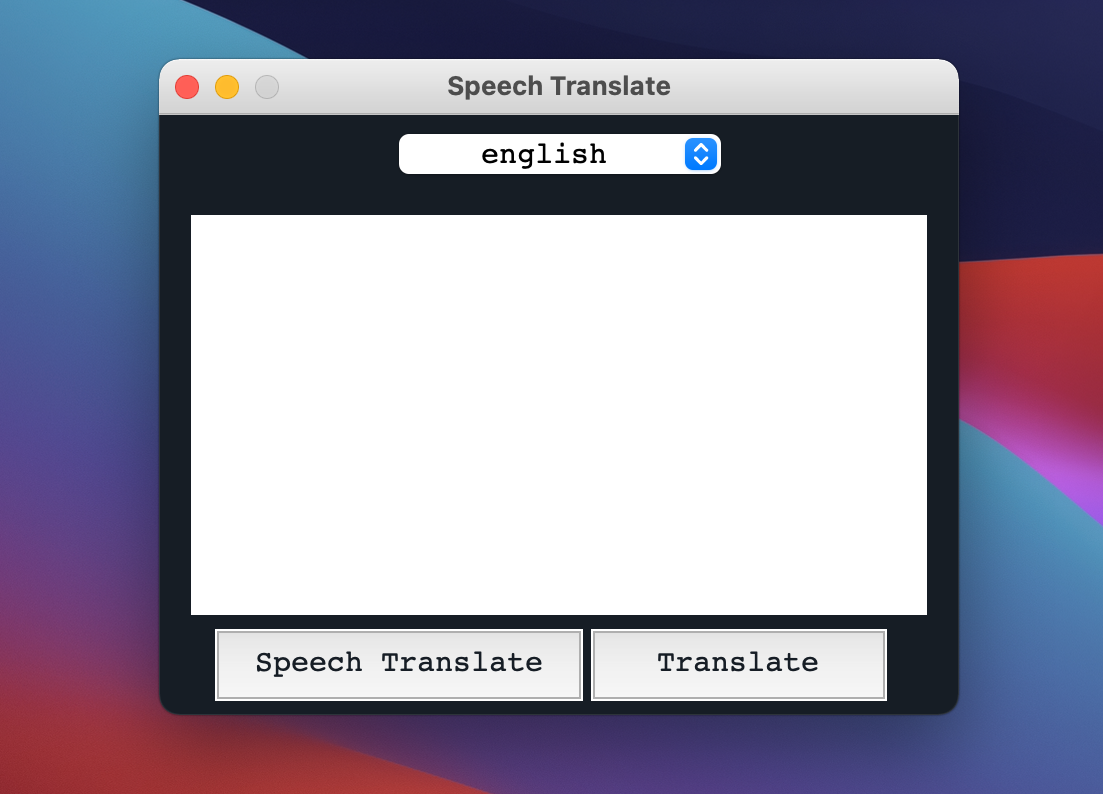
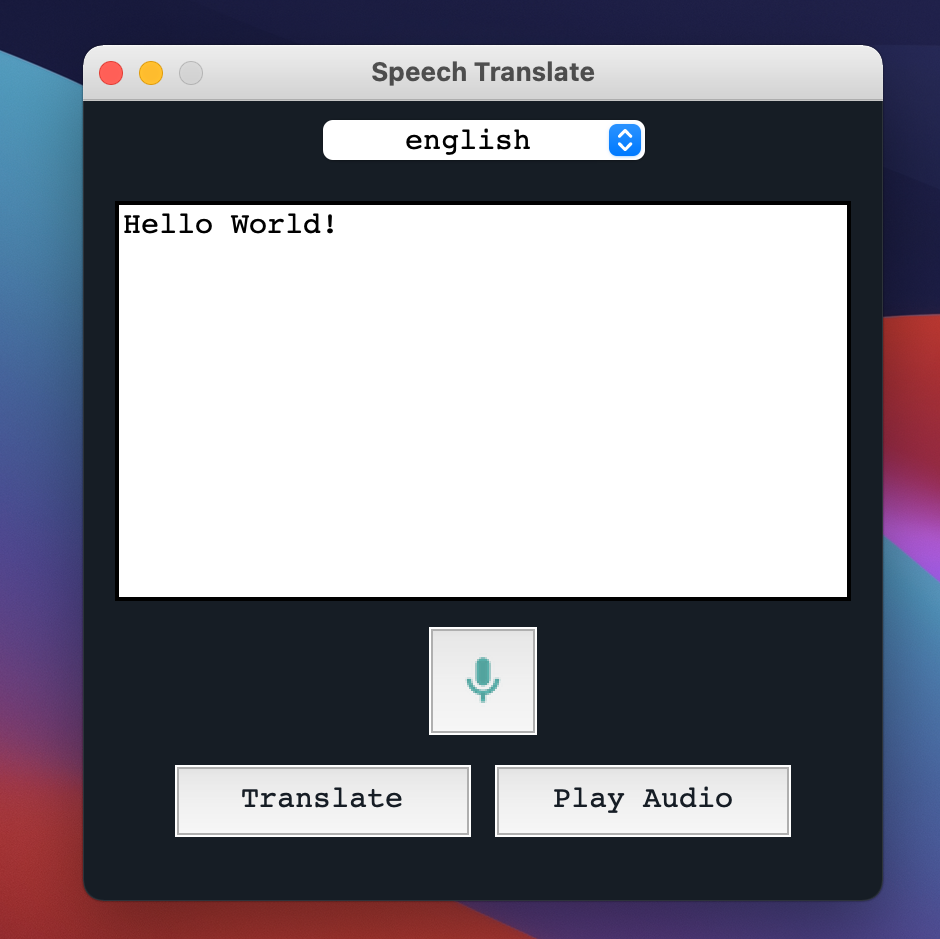
Added Play Audio Functionality

diff --git a/translate.py b/translate.py
@@ -4,14 +4,17 @@ import languages
 import threading
 import pathlib
 import speechTranslate as st
+import textToSpeech as tts
 
 
-
+# Translates input audio into English
 def speechtranslate():
     targetLang = langVariable.get()
     translatedText = st.recordAudio(targetLang)
     textBox.insert(1.0, translatedText)
-    speechbutton.config(text="Translate") 
+    translatebutton.config(text="Translate") 
+
+# Translates text into desired language
 def texttranslate():
     
     input = textBox.get("1.0",END)
@@ -20,26 +23,42 @@ def texttranslate():
     textBox.delete('1.0', END)
     textBox.insert(1.0, result)
 
-
+# Calls the speechtranslate while threading
 def listen():
     textBox.delete('1.0', END)
-    speechbutton.config(text="Listening...") 
+    translatebutton.config(text="Listening...") 
     thread = threading.Thread(target=speechtranslate)
     thread.start()
+# Changes text to speech
+def speak():
+   
+    language = langVariable.get()
+    text = textBox.get("1.0",END)
+    if len(text) == 1:
+        text = st.translate("No text available",language)
+    print(type(text))
+    tts.playAudio(language,text)
+
+# Calls translate function upon language change
 def change(event):
     input = textBox.get("1.0",END)
     lang = langVariable.get()
     result=st.translate(input,lang)
     textBox.delete('1.0', END)
     textBox.insert(1.0, result)
+
     
-    
+#path of current file 
 path = pathlib.Path(__file__).parent.absolute()
+
+#App icon image 
 filename= str(path) + '/images/image.png'
+
+#Window components
 window = Tk()
 window.iconphoto(False, PhotoImage(file=filename))
 window.title("Speech Translate")
-window.geometry('400x300')
+window.geometry('400x400')
 window.configure(background = "#161d25")
 window.resizable(False, False)
 
@@ -72,13 +91,20 @@ textBox.config(font=("Courier", 15),height = 12,width = 40)
 
 
 #Speech Translate Button
-speechbutton = Button(frame, text="Speech Translate", command=listen)
-speechbutton.place(x=120, y=275, anchor="center")
-speechbutton.config(fg = "#161d25",font=("Courier", 15),height = 2, width = 20)
+iconFile = str(path) + '/images/icon.png'
+photo = PhotoImage(file = iconFile)
+speechbutton = Button(frame, text="Speech Translate", image = photo , command=listen)
+speechbutton.place(x=200, y=290, anchor="center")
+speechbutton.config(fg = "#161d25",font=("Courier", 15),height = 50, width = 50)
 
 #Text Translate Button
-button = Button(frame, text="Translate", command=texttranslate)
-button.place(x=290, y=275, anchor="center")
-button.config(fg = "#161d25",font=("Courier", 15),height = 2, width = 16)
+translatebutton = Button(frame, text="Translate", command=texttranslate)
+translatebutton.place(x=120, y=350, anchor="center")
+translatebutton.config(fg = "#161d25",font=("Courier", 15),height = 2, width = 16)
+
+#Play Audio Button
+Audiobutton = Button(frame, text="Play Audio", command=speak)
+Audiobutton.place(x=280, y=350, anchor="center")
+Audiobutton.config(fg = "#161d25",font=("Courier", 15),height = 2, width = 16)
 
 window.mainloop()

diff --git a/textToSpeech.py b/textToSpeech.py
@@ -1,0 +1,25 @@
+
+from gtts import gTTS
+import os
+import languages as lang
+  
+  
+
+
+  
+# Changes text to speech
+def playAudio(speechLanguage, speechText):
+    try:
+        language = lang.get_key(speechLanguage)
+        myobj = gTTS(text=speechText, lang=language, slow=False)
+        myobj.save("translatedAudio.mp3")
+        os.system("mpg321 translatedAudio.mp3")
+        os.remove("translatedAudio.mp3")
+    except:
+        myobj = gTTS(text="Language is currently not supported", lang='en', slow=False)
+        myobj.save("translatedAudio.mp3")
+        os.system("mpg321 translatedAudio.mp3")
+        os.remove("translatedAudio.mp3")
+
+
+

diff --git a/speechTranslate.py b/speechTranslate.py
@@ -6,10 +6,10 @@ from googletrans import Translator
 translator = Translator()
 
 
-
+#Initializes speech_recognition
 r = sr.Recognizer()
 
-
+#Records audio from microphone input
 def recordAudio(language):
     with sr.Microphone() as source:
         # read the audio data from the default microphone
@@ -18,6 +18,7 @@ def recordAudio(language):
         text = r.recognize_google(audio_data)
         translation = translator.translate(text, dest=language)
         return translation.text
+#Translates text to desired language
 def translate(text,language):
     translation = translator.translate(text, dest=language)
     return translation.text

diff --git a/languages.py b/languages.py
@@ -108,6 +108,14 @@ LANGUAGES = {
     'zu': 'zulu'
 }
 
+# Returns dictionary 
 def getLanguages():
     return list(LANGUAGES.values())
+
+# Returns key 
+def get_key(val):
+    for key, value in LANGUAGES.items():
+         if val == value:
+             return key
+        
 

diff --git a/README.md b/README.md
@@ -23,6 +23,7 @@ For Mac Users, you will have to do the following
 ```sh
 	brew update
 	brew install portaudio
+	brew install mpg321
 	pip3 install pyaudio
 
 ```
@@ -62,6 +63,8 @@ Select desired translation
 Input text in text input box
 
 Click on Translate
+
+Moreover, you can play audio if there is a supported language available by selecting Play Audio
     
 
 
